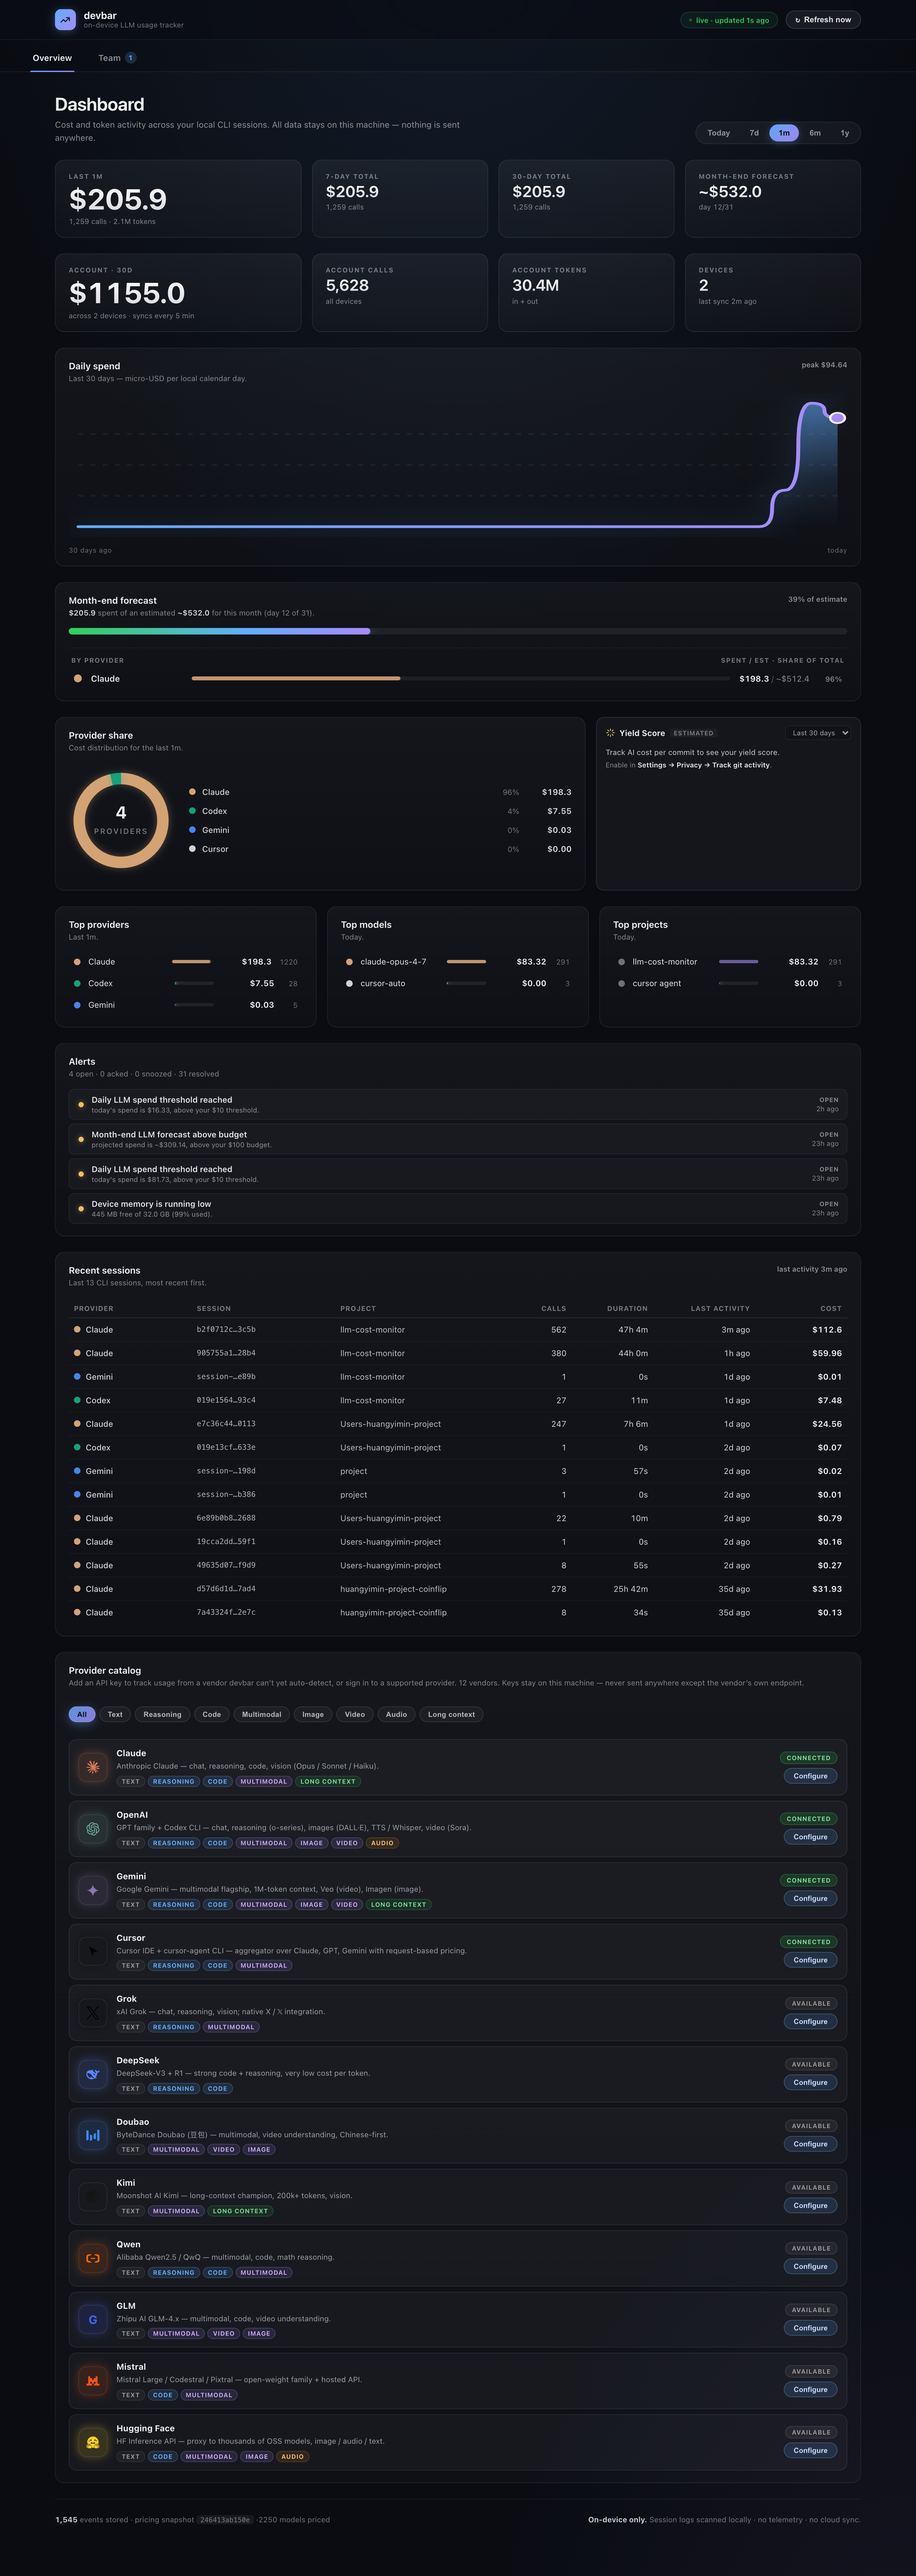
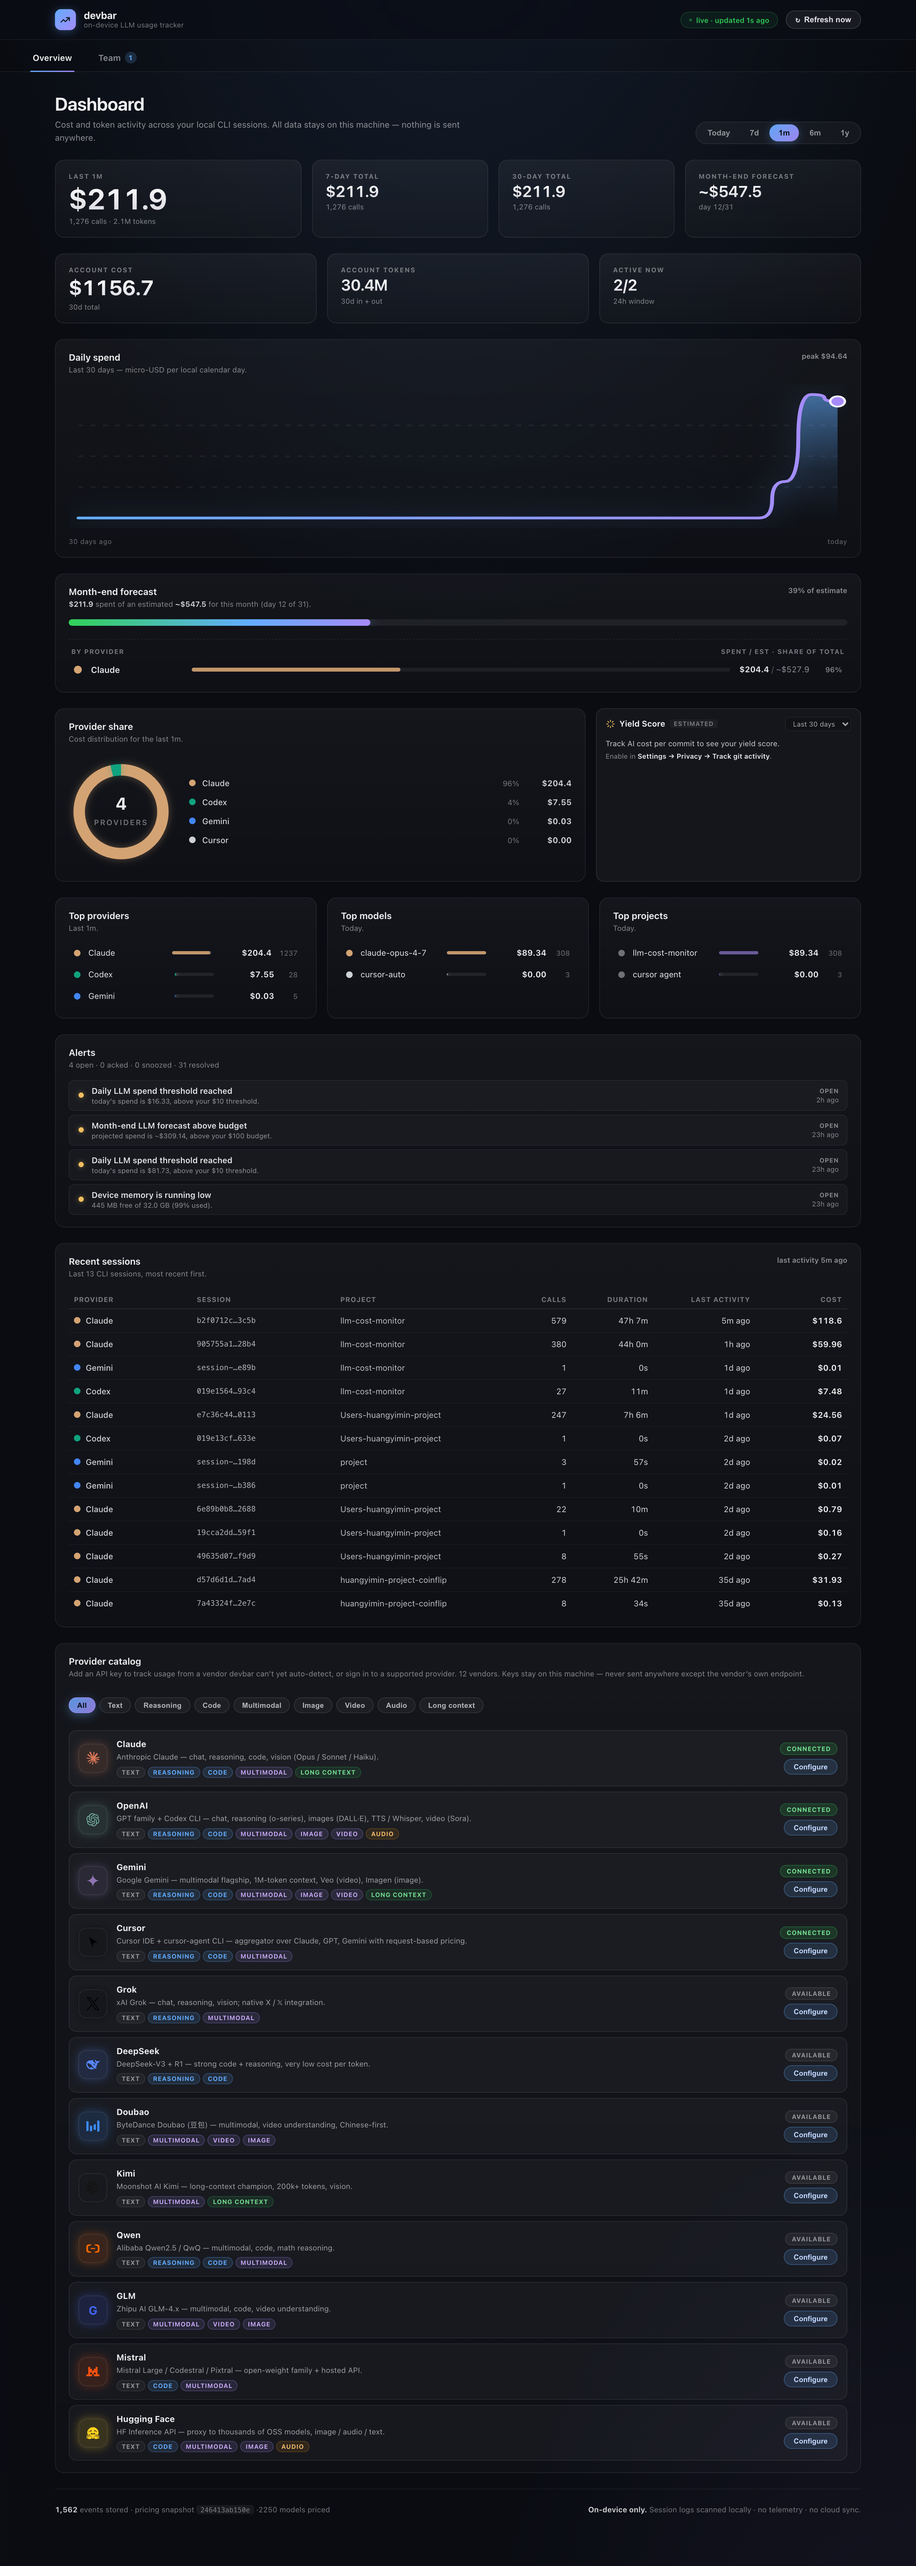
ui(overview): tighten account row to 3 tiles — cost, tokens, active
Previous 4-tile row overflowed: "Account · 30d (2 devices)" wrapped
into the next tile and the $value got ellipsis'd. Drop the calls /
devices tiles per spec ("Total 只要 cost 和 token 使用就可以"); keep
only the headline numbers + an "Active now" indicator the user asked
for separately ("显示多少 device is active now").

New layout (both renderers symmetric):

  Account cost       $1156.7        30d total
  Account tokens     30.4M          30d in + out
  Active now         2/2            24h window

"Active now" is `myNodes.filter(lastSeenAt >= now - 24h).length /
total myNodes` — same activity rule the server uses for its team-wide
activeNodes KPI, scoped to the signed-in user.

Plumbing:
  • Adds `.kpi-grid-2` and `.web-kpi-row-triple` CSS variants so the
    new layouts work cleanly on both surfaces.
  • Reuses the 5-minute team-overview poll already wired in #20.

diff --git a/src/renderer/src/tabs/OverviewTab.tsx b/src/renderer/src/tabs/OverviewTab.tsx
@@ -277,10 +277,18 @@ export function OverviewTab({ agg, period, onPeriodChange, settings, teamOvervie
   const me = myUserId === null
     ? null
     : (teamOverview?.members.find((m) => m.userId === myUserId) ?? null)
-  const myNodeCount =
+  const myNodes =
     myUserId === null || teamOverview === null
-      ? 0
-      : teamOverview.nodes.filter((n) => n.userId === myUserId).length
+      ? []
+      : teamOverview.nodes.filter((n) => n.userId === myUserId)
+  const myNodeCount = myNodes.length
+  // "Active now" — device touched the server inside the last 24h. Same
+  // rule the server uses for the team activeNodes KPI, scoped to the
+  // signed-in user.
+  const activeWindowMs = Date.now() - 24 * 3600 * 1000
+  const myActiveCount = myNodes.filter(
+    (n) => n.lastSeenAt !== null && n.lastSeenAt >= activeWindowMs,
+  ).length
   const providerRows =
     period === 'today' ? agg.byProviderToday : agg[PERIOD_BY_PROVIDER[period]]
 
@@ -353,39 +361,40 @@ export function OverviewTab({ agg, period, onPeriodChange, settings, teamOvervie
         />
       </section>
 
-      {/* Account total — merged across every machine the user signs into.
-          Polls team-overview every 5 min so a second device (e.g. mac +
-          mbp on the same account) shows up without manual refresh.
-          Window is 30d (server-side default); the local row above tracks
-          the user's chosen period and is per-machine. */}
+      {/* Account total — merged across every machine the user signs
+          into. Polls team-overview every 5 min so a second device (e.g.
+          mac + mbp on the same account) shows up without manual refresh.
+          Three tiles: cost + tokens (the headline numbers) and active
+          devices NOW (so the user knows which machines contributed).
+          Full per-device drilldown lives on the Team tab. */}
       {me !== null && (
-        <section className="kpi-grid kpi-grid-4 hero-tiles" aria-label={`Account total across ${myNodeCount} device${myNodeCount === 1 ? '' : 's'}`}>
+        <section
+          className="kpi-grid kpi-grid-3 hero-tiles"
+          aria-label={`Account total across ${myNodeCount} device${myNodeCount === 1 ? '' : 's'}`}
+        >
           <KpiTile
             icon={IconDollar}
             iconColor="rgba(120, 200, 140, 0.95)"
-            label={`Account · 30d (${myNodeCount} device${myNodeCount === 1 ? '' : 's'})`}
+            label="Account cost"
             value={(() => {
               const usd = Number(me.costMicroUsd) / 1_000_000
               return usd >= 100 ? `$${usd.toFixed(1)}` : `$${usd.toFixed(2)}`
             })()}
-          />
-          <KpiTile
-            icon={IconActivity}
-            iconColor="rgba(120, 170, 255, 0.95)"
-            label="Account calls"
-            value={me.eventCount.toLocaleString()}
+            sub="30d total"
           />
           <KpiTile
             icon={IconTokens}
             iconColor="rgba(167, 139, 250, 0.95)"
             label="Account tokens"
             value={formatTokens(me.inputTokens + me.outputTokens)}
+            sub="30d in + out"
           />
           <KpiTile
             icon={IconNodes}
             iconColor="rgba(160, 200, 255, 0.95)"
-            label="Devices"
-            value={String(myNodeCount)}
+            label="Active now"
+            value={`${myActiveCount}/${myNodeCount}`}
+            sub="24h window"
           />
         </section>
       )}

diff --git a/src/renderer/src/WebDashboard.tsx b/src/renderer/src/WebDashboard.tsx
@@ -380,40 +380,37 @@ export function WebDashboard(): JSX.Element {
           if (teamOverview === null || myUserId === null) return null
           const me = teamOverview.members.find((m) => m.userId === myUserId)
           if (me === undefined) return null
-          const myNodes = teamOverview.nodes.filter((n) => n.userId === myUserId).length
+          const myNodes = teamOverview.nodes.filter((n) => n.userId === myUserId)
+          const activeWindowMs = Date.now() - 24 * 3600 * 1000
+          const myActiveCount = myNodes.filter(
+            (n) => n.lastSeenAt !== null && n.lastSeenAt >= activeWindowMs,
+          ).length
           const acctUsd = Number(me.costMicroUsd) / 1_000_000
           return (
             <section
-              className="web-kpi-row"
-              aria-label={`Account total across ${myNodes} device${myNodes === 1 ? '' : 's'}`}
+              className="web-kpi-row web-kpi-row-triple"
+              aria-label={`Account total across ${myNodes.length} device${myNodes.length === 1 ? '' : 's'}`}
             >
-              <article className="web-kpi web-kpi-hero">
-                <span className="web-kpi-label">Account · 30d</span>
+              <article className="web-kpi">
+                <span className="web-kpi-label">Account cost</span>
                 <span className="web-kpi-value">
                   {acctUsd >= 100 ? `$${acctUsd.toFixed(1)}` : `$${acctUsd.toFixed(2)}`}
                 </span>
-                <span className="web-kpi-sub">
-                  across {myNodes} device{myNodes === 1 ? '' : 's'} · syncs every 5 min
-                </span>
-              </article>
-              <article className="web-kpi">
-                <span className="web-kpi-label">Account calls</span>
-                <span className="web-kpi-value secondary">{me.eventCount.toLocaleString()}</span>
-                <span className="web-kpi-sub">all devices</span>
+                <span className="web-kpi-sub">30d total</span>
               </article>
               <article className="web-kpi">
                 <span className="web-kpi-label">Account tokens</span>
                 <span className="web-kpi-value secondary">
                   {formatTokens(me.inputTokens + me.outputTokens)}
                 </span>
-                <span className="web-kpi-sub">in + out</span>
+                <span className="web-kpi-sub">30d in + out</span>
               </article>
               <article className="web-kpi">
-                <span className="web-kpi-label">Devices</span>
-                <span className="web-kpi-value secondary">{myNodes}</span>
-                <span className="web-kpi-sub">
-                  {me.lastSeenAt !== null ? `last sync ${timeAgo(me.lastSeenAt)} ago` : 'never synced'}
+                <span className="web-kpi-label">Active now</span>
+                <span className="web-kpi-value secondary">
+                  {myActiveCount}/{myNodes.length}
                 </span>
+                <span className="web-kpi-sub">24h window</span>
               </article>
             </section>
           )

diff --git a/src/renderer/src/web.css b/src/renderer/src/web.css
@@ -222,6 +222,11 @@ html.web #root {
   grid-template-columns: 1.4fr 1fr 1fr 1fr;
   gap: 16px;
 }
+/* Three-tile variant for the account-aggregated row (cost + tokens +
+   active devices). Each tile spans evenly — no hero stretch. */
+.web-kpi-row-triple {
+  grid-template-columns: 1fr 1fr 1fr;
+}
 .web-kpi {
   background: linear-gradient(180deg, rgba(255, 255, 255, 0.05), rgba(255, 255, 255, 0.02));
   border: 1px solid rgba(255, 255, 255, 0.08);

diff --git a/src/renderer/src/styles.css b/src/renderer/src/styles.css
@@ -977,6 +977,7 @@ body {
   display: grid;
   gap: 8px;
 }
+.kpi-grid-2 { grid-template-columns: repeat(2, 1fr); }
 .kpi-grid-3 { grid-template-columns: repeat(3, 1fr); }
 .kpi-grid-4 { grid-template-columns: repeat(4, 1fr); }
 
